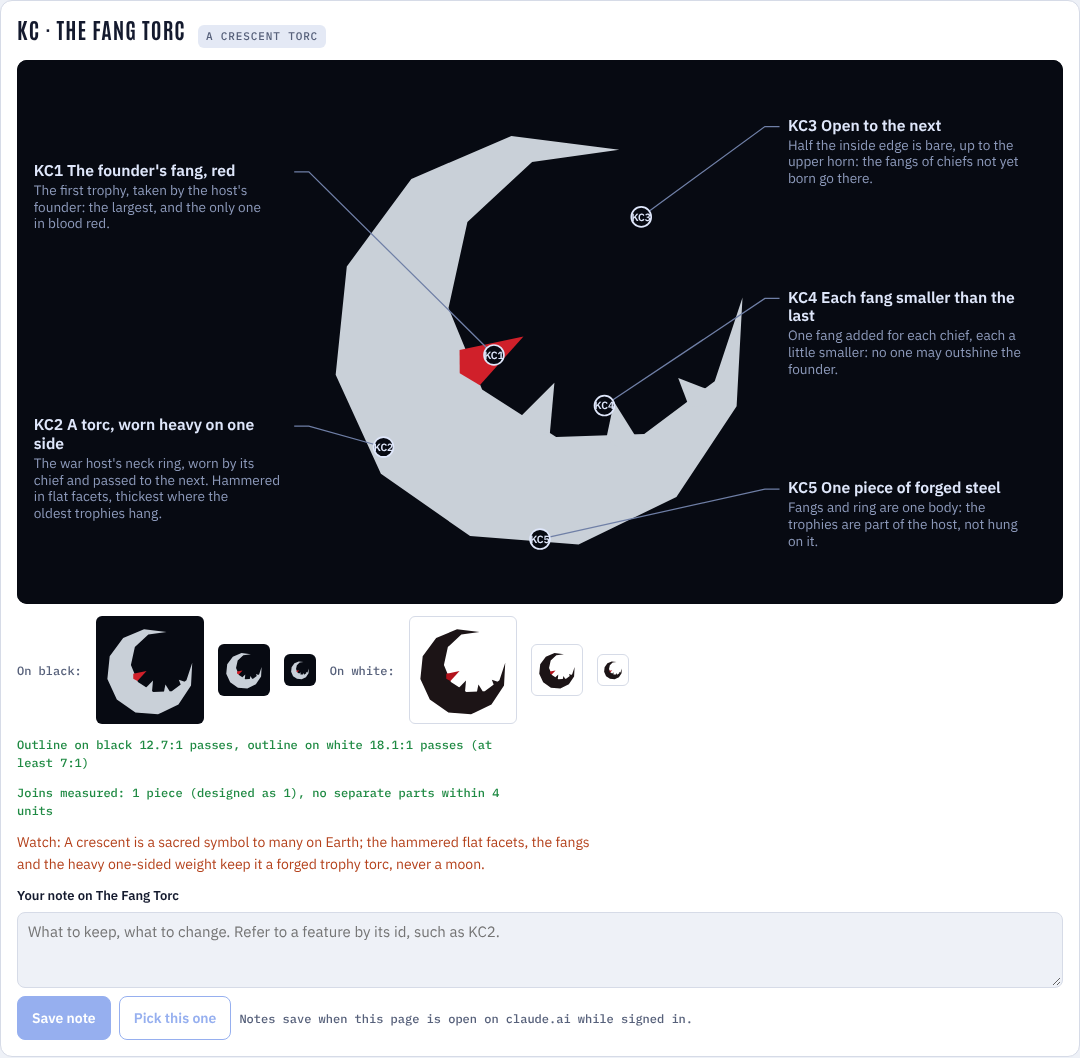
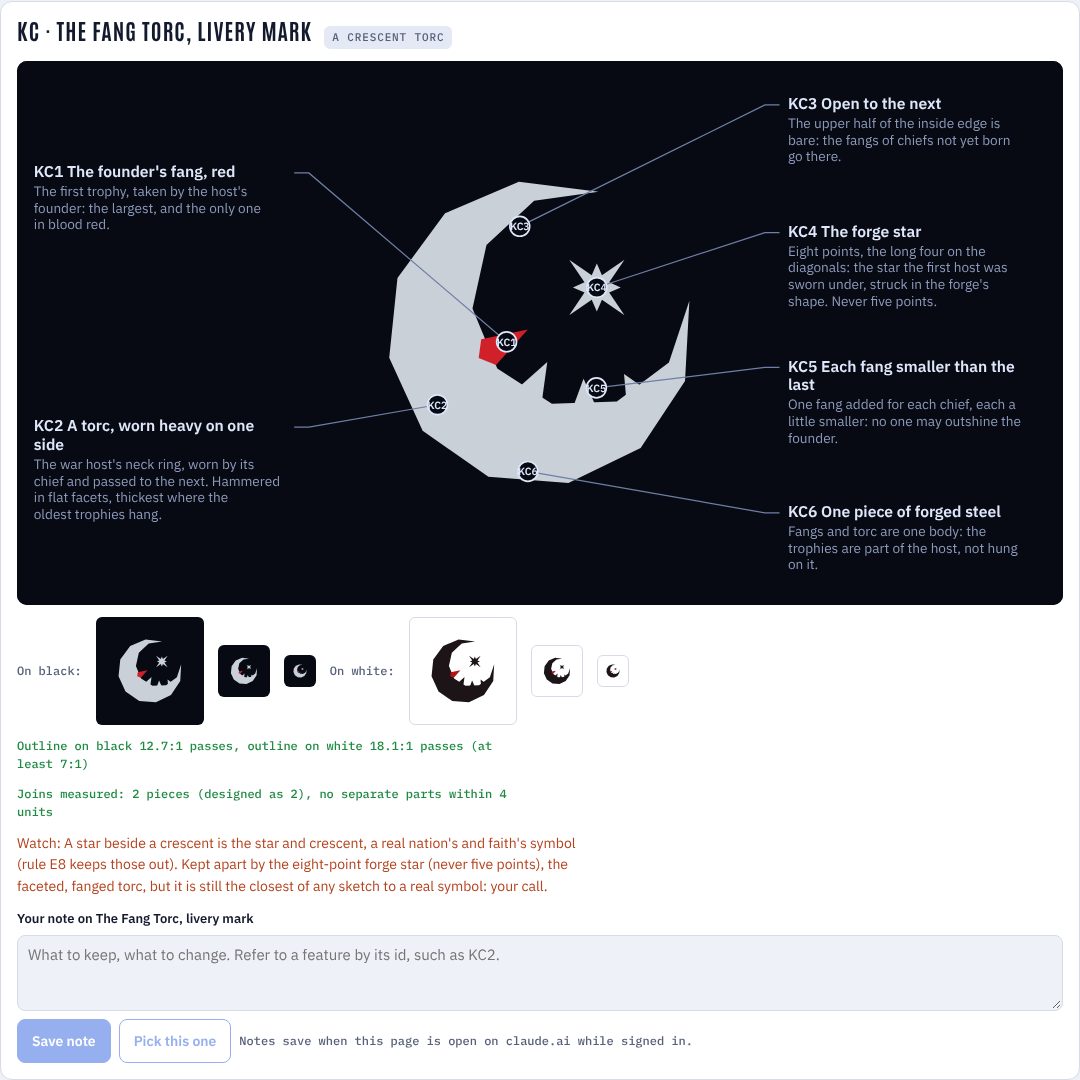
Krai emblem: the fang torc picked, emblem (KC+) and livery mark (KC)
The ring version with the forge star is the emblem; the same torc with
no ring is the livery mark. The emperor's three-point star tried and
set aside. The thin crescent keeps a 1.2 unit minimum width to its
point (a sub-pixel tip had broken off), and the fangs sit clear of the
lower horn. All four Krai sketches measured.

Claude-Session: https://claude.ai/code/session_01RGPQurdNhehmMFB559epqW

diff --git a/docs/design/emblem-guide.html b/docs/design/emblem-guide.html
@@ -221,6 +221,10 @@ ol.steps .st { font: 500 11px var(--mono); letter-spacing: 0.08em; text-transfor
 'use strict';
 // ---- your notes (newest first): kept in the page, added by Claude as you give them -----------------------------------
 const NOTES = [
+  { f: 'krai', when: '2026-11-04', q: 'bro this version slaps / Thats it / the forge star you had was even better / keep that', means: 'The ring version is the Krai\'s emblem (KC+): the forge star (eight points), the founder\'s red fang and four fangs, the thin outer crescent and the ring, as first drawn, the torc a little smaller so the thin crescent clears the ring. The three-point emperor\'s star and the engraving are dropped.' },
+  { f: 'krai', when: '2026-11-04', q: 'I like the overall shape of fang torc, I want a more complex version of this for emblem, but use thesimple logo for the ship livery', means: 'KC in two tiers: KC, the livery mark (the torc, the three houses\' fangs and the emperor\'s star, nothing round it), for the hulls; KC+, the emblem (the ring, the thin outer crescent, a tally per emperor on the ring, a groove along the facets, each fang bound, the throne in the star), for the 3D badge.' },
+  { f: 'krai', when: '2026-11-04', q: 'KC3 they have an emperor cheif, the 3 sided star should represent that / a star ruling over the 3 great houses', means: 'KC: the star is the emperor-chief, three-pointed and the only red, set above three fangs, one for each great house in order of precedence (the red founder\'s fang and the fourth fang go).' },
+  { f: 'krai', when: '2026-11-04', q: 'fang toc, add a star in the middle, circle around it for 3d emblem version, a thin crescent border to the outer part of the screscent', means: 'KC, the fang torc, taken forward: an eight-point forge star in its opening, a thin crescent along its outer edge, and a ring round all of it for the 3D badge; the torc made smaller to keep every part 4 units clear. Flagged: a star with a crescent is close to the star and crescent, a real symbol.' },
   { f: 'all', when: '2026-11-04', q: 'dont show everything on one page, we\'re on krai now, I dont need to see both krai and concord in one page', means: 'A faction switch at the top: one faction\'s sketches and notes at a time, opening on the Krai. Notes that apply to every faction always show.' },
   { f: 'krai', when: '2026-11-04', q: 'good, begin krai emblem design, this faction believes strongly in tradition. give them some sort of asymmetric logo', means: 'The Krai Warhost\'s section: three asymmetric directions, each a record that only grows one way: KA, the heirloom blade on a tally-notched shield (recommended); KB, the lineage standard with a chevron per elder; KC, the fang torc with a trophy per chief. Blade steel and blood red, measured like the Concord\'s.' },
   { f: 'concord', when: '2026-11-04', q: 'Yea ok. I\'ll accept that. Let\'s see it ont be ship hull. Solid color variant with a cyan colored star in the middle.', means: 'B-E27, the smooth keyhole, accepted: now B\'s main sketch. Painted on the Petrel\'s hull (M11) in the solid version with a cyan star.' },
@@ -642,25 +646,59 @@ function kbChevrons(k) {
   });
   return s;
 }
-// KC's torc: a heavy faceted crescent, open to the upper right, its two arcs meeting in sharp horns, with trophy fangs along its
-// inside edge from the founder's (largest, at the heavy end) toward the lower horn, the rest left open for the next.
+// KC's torc (owner, 2026-11-04, picking it: "fang toc, add a star in the middle, circle around it for 3d emblem version, a
+// thin crescent border to the outer part of the screscent"). A heavy faceted crescent, open to the upper right, its two
+// arcs meeting in sharp horns, with trophy fangs along its inside edge from the founder's (largest, at the heavy end)
+// toward the lower horn; a thin crescent following its outer edge; an eight-point forge star in its opening; and a ring
+// round all of it, the badge's rim. Everything is sized so each part stands at least 4 units clear of the next.
 const KC = (() => {
-  const C1 = [50, 52], r1 = 45, C2 = [62, 42], r2 = 32, d = Math.hypot(C2[0] - C1[0], C2[1] - C1[1]);
+  const O = [50, 50], RING = [49, 45];                 // the ring: outer and inner radius
+  const r1 = 33.2, k = r1 / 45, C1 = O, C2 = [O[0] + 12 * k, O[1] - 10 * k], r2 = 32 * k;
+  const d = Math.hypot(C2[0] - C1[0], C2[1] - C1[1]);
   const toC2 = Math.atan2(C2[1] - C1[1], C2[0] - C1[0]) / R, toC1 = toC2 + 180;
   const th = Math.acos((r1 * r1 + d * d - r2 * r2) / (2 * r1 * d)) / R, ph = Math.acos((r2 * r2 + d * d - r1 * r1) / (2 * r2 * d)) / R;
-  const out = [], inn = [];
+  const a0 = toC2 + th, span = 360 - 2 * th, out = [], inn = [];
   // Faceted, not round: hammered flat faces, so it reads as forged steel and never as a moon.
-  for (let i = 0; i <= 10; i++) out.push(pol(r1, toC2 + th + (360 - 2 * th) * i / 10, ...C1));
+  for (let i = 0; i <= 10; i++) out.push(pol(r1, a0 + span * i / 10, ...C1));
   for (let i = 0; i <= 8; i++) inn.push(pol(r2, toC1 + ph - 2 * ph * i / 8, ...C2));
-  const fangs = [[150, 14, 4.4], [115, 11, 3.8], [80, 8.5, 3.2], [45, 6.5, 2.7]].map(([a, len, hw]) => {
+  const fangs = [[150, 14, 4.4], [118, 11, 3.8], [88, 8.5, 3.2], [60, 6.5, 2.7]].map(([a, len, hw]) => {
+    len *= k; hw *= k;
     const t = [-Math.sin(a * R), Math.cos(a * R)], base = pol(r2 + 2, a, ...C2), tip = pol(r2 - len, a, ...C2), edge = pol(r2 - 0.5, a, ...C2);
     return [[edge[0] + t[0] * hw, edge[1] + t[1] * hw], tip, [edge[0] - t[0] * hw, edge[1] - t[1] * hw], base];
   });
-  return { body: polyD(out.concat(inn)), fangs };
+  // The thin crescent: 4 units outside the torc, along the same facets and the same span, tapering to points at both ends.
+  const gap = 4, wMax = 2.4, thinOut = [], thinIn = [];
+  for (let i = 0; i <= 40; i++) {
+    const t = i / 40, a = a0 + span * t, w = i === 0 || i === 40 ? 0 : Math.max(1.2, wMax * Math.pow(Math.sin(Math.PI * t), 0.6)); // never thinner than a print line before its point
+    // Follow the faceted edge: the radius of the facet under this angle, so the thin line stays parallel to it.
+    const f0 = Math.min(9, Math.floor(t * 10)), fa = a0 + span * f0 / 10, fb = a0 + span * (f0 + 1) / 10, mid = (fa + fb) / 2;
+    const rr = r1 * Math.cos((span / 20) * R) / Math.cos((a - mid) * R);
+    thinIn.push(pol(rr + gap, a, ...C1)); thinOut.push(pol(rr + gap + w, a, ...C1));
+  }
+  // The forge star (owner, 2026-11-04, of the emperor's three-point star that briefly replaced it: "the forge star you had
+  // was even better", "keep that"): eight points, the four long ones on the diagonals, in the torc's opening.
+  const S = [C2[0] + 3.5, C2[1] - 2.5], star = [];
+  for (let i = 0; i < 16; i++) star.push(pol(i % 2 ? 2.9 : (i % 4 === 0 ? 8.5 : 5.2), -45 + i * 22.5, ...S));
+  const ring = `M${O[0] + RING[0]} ${O[1]}A${RING[0]} ${RING[0]} 0 1 0 ${O[0] - RING[0]} ${O[1]}A${RING[0]} ${RING[0]} 0 1 0 ${O[0] + RING[0]} ${O[1]}Z`;
+  const ringIn = `M${O[0] + RING[1]} ${O[1]}A${RING[1]} ${RING[1]} 0 1 0 ${O[0] - RING[1]} ${O[1]}A${RING[1]} ${RING[1]} 0 1 0 ${O[0] + RING[1]} ${O[1]}Z`;
+  return { body: polyD(out.concat(inn)), fangs, thin: polyD(thinOut.concat(thinIn.reverse())), star: polyD(star), S, ring, ringIn,
+    C1, C2, r1, r2, k, a0, span, RING, O, at: (r, a, c) => pol(r, a, ...c) };
 })();
+// The torc in two tiers (owner, 2026-11-04: "I like the overall shape of fang torc, I want a more complex version of this
+// for emblem, but use thesimple logo for the ship livery", then of the ring version: "bro this version slaps", "Thats it").
+// simple: the torc, its fangs and the forge star, nothing round it, for the hull. full: the emblem, with the ring and the
+// thin outer crescent.
+function kcArt(k, ink = false, full = true) {
+  const c = (x) => (ink ? '#000' : x);
+  let s = '';
+  if (full) { s += `<path d="${KC.ring}${KC.ringIn}" fill="${c(k.frame)}" fill-rule="evenodd"/>`; if (!ink) s += path(KC.ringIn, k.field); s += path(KC.thin, c(k.frame)); }
+  s += path(KC.body, c(k.frame));
+  KC.fangs.forEach((g, i) => { s += path(polyD(g), c(i === 0 ? k.accent : k.frame)); });
+  return s + path(KC.star, c(k.frame));
+}
 const KRAI_DESIGNS = [
   {
-    id: 'krai-a', tag: 'KA', faction: 'krai', name: 'KA · The Heirloom Blade', outline: 'A lopsided shield', rec: true, own: true, pal: KRAI, pieces: 2,
+    id: 'krai-a', tag: 'KA', faction: 'krai', name: 'KA · The Heirloom Blade', outline: 'A lopsided shield', own: true, pal: KRAI, pieces: 2,
     risk: 'A blade across a shield is a common military badge; the hooked, barbed Krai bayonet, the single quillon and the tally-cut edge keep it the Krai\'s own.',
     draw(bg = 'dk') { const k = KRAI[bg]; return `<path d="${KA_SHIELD.frame}" fill="${k.frame}" fill-rule="evenodd"/>` + path(KA_SHIELD.field, k.field) + kaBlade(k); },
     ink() { return `<path d="${KA_SHIELD.frame}" fill="#000" fill-rule="evenodd"/>` + kaBlade({ device: '#000' }); },
@@ -689,16 +727,33 @@ const KRAI_DESIGNS = [
     ],
   },
   {
-    id: 'krai-c', tag: 'KC', faction: 'krai', name: 'KC · The Fang Torc', outline: 'A crescent torc', own: true, pal: KRAI, pieces: 1,
-    risk: 'A crescent is a sacred symbol to many on Earth; the hammered flat facets, the fangs and the heavy one-sided weight keep it a forged trophy torc, never a moon.',
-    draw(bg = 'dk') { const k = KRAI[bg]; let s = path(KC.body, k.frame); KC.fangs.forEach((g, i) => { s += path(polyD(g), i === 0 ? k.accent : k.frame); }); return s; },
-    ink() { let s = path(KC.body, '#000'); KC.fangs.forEach((g) => { s += path(polyD(g), '#000'); }); return s; },
+    id: 'krai-c', tag: 'KC', faction: 'krai', name: 'KC · The Fang Torc, livery mark', outline: 'A crescent torc', own: true, pal: KRAI, pieces: 2,
+    risk: 'A star beside a crescent is the star and crescent, a real nation\'s and faith\'s symbol (rule E8 keeps those out). Kept apart by the eight-point forge star (never five points), the faceted, fanged torc, but it is still the closest of any sketch to a real symbol: your call.',
+    draw(bg = 'dk') { return kcArt(KRAI[bg], false, false); },
+    ink() { return kcArt(KRAI.dk, true, false); },
     callouts: [
-      [16, 75, 'L', 'A torc, worn heavy on one side', 'The war host\'s neck ring, worn by its chief and passed to the next. Hammered in flat facets, thickest where the oldest trophies hang.'],
-      [40, 55, 'L', 'The founder\'s fang, red', 'The first trophy, taken by the host\'s founder: the largest, and the only one in blood red.'],
-      [64, 66, 'R', 'Each fang smaller than the last', 'One fang added for each chief, each a little smaller: no one may outshine the founder.'],
-      [72, 25, 'R', 'Open to the next', 'Half the inside edge is bare, up to the upper horn: the fangs of chiefs not yet born go there.'],
-      [50, 95, 'R', 'One piece of forged steel', 'Fangs and ring are one body: the trophies are part of the host, not hung on it.'],
+      [...KC.at(KC.r1 - 6, 145, KC.C1), 'L', 'A torc, worn heavy on one side', 'The war host\'s neck ring, worn by its chief and passed to the next. Hammered in flat facets, thickest where the oldest trophies hang.'],
+      [...KC.at(KC.r2 - 5, 150, KC.C2), 'L', 'The founder\'s fang, red', 'The first trophy, taken by the host\'s founder: the largest, and the only one in blood red.'],
+      [...KC.S, 'R', 'The forge star', 'Eight points, the long four on the diagonals: the star the first host was sworn under, struck in the forge\'s shape. Never five points.'],
+      [...KC.at(KC.r2 - 3, 230, KC.C2), 'R', 'Open to the next', 'The upper half of the inside edge is bare: the fangs of chiefs not yet born go there.'],
+      [...KC.at(KC.r2 - 4, 80, KC.C2), 'R', 'Each fang smaller than the last', 'One fang added for each chief, each a little smaller: no one may outshine the founder.'],
+      [...KC.at(KC.r1 - 3, 95, KC.C1), 'R', 'One piece of forged steel', 'Fangs and torc are one body: the trophies are part of the host, not hung on it.'],
+    ],
+  },
+  {
+    id: 'krai-c2', tag: 'KC+', faction: 'krai', name: 'KC+ · The Fang Torc, emblem', outline: 'A ring round a crescent torc', rec: true, own: true, pal: KRAI, pieces: 4,
+    risk: 'A star beside a crescent is the star and crescent, a real nation\'s and faith\'s symbol (rule E8 keeps those out). Kept apart by the eight-point forge star (never five points), the faceted, fanged torc, the thin outer crescent and the ring, but it is still the closest of any sketch to a real symbol: your call. The ring also goes against "never a circle holding things", at your request, for the 3D badge.',
+    draw(bg = 'dk') { return kcArt(KRAI[bg]); },
+    ink() { return kcArt(KRAI.dk, true); },
+    callouts: [
+      [...KC.at(KC.r1 - 6, 145, KC.C1), 'L', 'A torc, worn heavy on one side', 'The war host\'s neck ring, worn by its chief and passed to the next. Hammered in flat facets, thickest where the oldest trophies hang.'],
+      [...KC.at(KC.r2 - 5, 150, KC.C2), 'L', 'The founder\'s fang, red', 'The first trophy, taken by the host\'s founder: the largest, and the only one in blood red.'],
+      [...KC.at(KC.r1 + 5.2, 200, KC.C1), 'L', 'A thin crescent outside', 'A second, fine crescent along the torc\'s outer edge: the line of every chief who wore it before, always just behind the one who wears it now.'],
+      [...KC.at(47, 225, [50, 50]), 'L', 'The ring, the badge\'s rim', 'For the 3D emblem: the host\'s oath ring, closed round the torc. Everything inside stands 4 units clear of it.'],
+      [...KC.S, 'R', 'The forge star', 'Eight points, the long four on the diagonals: the star the first host was sworn under, struck in the forge\'s shape. Never five points.'],
+      [...KC.at(KC.r2 - 3, 230, KC.C2), 'R', 'Open to the next', 'The upper half of the inside edge is bare: the fangs of chiefs not yet born go there.'],
+      [...KC.at(KC.r2 - 4, 80, KC.C2), 'R', 'Each fang smaller than the last', 'One fang added for each chief, each a little smaller: no one may outshine the founder.'],
+      [...KC.at(KC.r1 - 3, 95, KC.C1), 'R', 'One piece of forged steel', 'Fangs and torc are one body: the trophies are part of the host, not hung on it.'],
     ],
   },
 ];
@@ -891,6 +946,8 @@ async function measureOutline(svgInner) {
   const parts = count(true), regions = count(false);
   return { parts, holes: regions - 1, ok: parts === 1 && regions === 1 };
 }
+// A sketch's silhouette as SVG, for the tools that measure it (tools/emblems/).
+window.EMBLEM_INK = (id) => { const d = [...DESIGNS, ...KRAI_DESIGNS].find((x) => x.id === id); return d ? (d.ink || d.draw).call(d) : null; };
 window.EMBLEM_CHECK = async () => {
   const out = [];
   for (const e of ENCLOSURES) {

diff --git a/docs/mockups/tracker.html b/docs/mockups/tracker.html
@@ -150,8 +150,8 @@ const GUIDES = [
     published: '2026-11-03', version: 2,
     summary: 'How every Fleet Command ship is designed, worked on the Concord line: rooms first as block floor plans, the hull fitted round them and measured (the Petrel: 23 rooms, every one 1.05 m inside), then the named parts (hulls, neck, bridge block, struts, nacelles; a bridge block only on super capital ships, otherwise by playtest), windows only on lived-in rooms, parallax interiors, hull lighting, markings and liveries, an exterior that complements its console (a guide, not a hard rule), and parallax damage. Live deck plans, fitted hull and exploded parts.' },
   { title: 'Emblem Design Guide', page: 'docs/design/emblem-guide.html', url: 'https://claude.ai/artifact/1ELwhue4vzFPjySnVc475V',
-    published: '2026-11-04', version: 23,
-    summary: 'How faction emblems are designed, and the record of your notes on them, one faction at a time (a switch at the top): sketch flat in SVG first with every choice explained, you pick, then sculpt in 3D. Rules compiled from your notes, the reference badges and the STARFLEET Visual Standards Manual (cited by page); each sketch measured for joins, one closed outline and contrast on black and on white. The Concord\'s sketches, with B worked furthest: B-E27, the smooth keyhole (B-E15 smoothed), accepted, built as the 3D badge (M10) and on the Concord line (M6). The Krai Warhost started: three asymmetric sketches for a people of tradition (the heirloom blade, the lineage standard, the fang torc).' },
+    published: '2026-11-04', version: 24,
+    summary: 'How faction emblems are designed, and the record of your notes on them, one faction at a time (a switch at the top): sketch flat in SVG first with every choice explained, you pick, then sculpt in 3D. Rules compiled from your notes, the reference badges and the STARFLEET Visual Standards Manual (cited by page); each sketch measured for joins, one closed outline and contrast on black and on white. The Concord\'s sketches, with B worked furthest: B-E27, the smooth keyhole (B-E15 smoothed), accepted, built as the 3D badge (M10) and on the Concord line (M6). The Krai Warhost: the fang torc picked, as an emblem (a ring round the torc, a thin outer crescent, the forge star) and a simpler livery mark for the hulls.' },
 ];
 const MISC = [
   { title: 'Concord emblem on the hull (retired)', page: 'docs/mockups/concord-emblem-hull.html', url: 'https://claude.ai/artifact/FLP6mnCeUCwn9c2rG2pxK9',

diff --git a/openspec/changes/faction-emblems/design.md b/openspec/changes/faction-emblems/design.md
@@ -93,6 +93,18 @@ torc (a faceted crescent, a trophy fang per chief from the founder's red one, th
 blade steel `#c9d0d8` and blood red `#d0202a` on a blackened field on black; near-black `#1c1416` and `#b3121b` on a bone
 field on white. Each sketch is measured for joins and its outline against both grounds (12.7:1 and 18.1:1 for KA).
 
+**Picked: the Fang Torc, in two tiers** (owner, 2026-11-04: "fang toc, add a star in the middle, circle around it for 3d
+emblem version, a thin crescent border to the outer part of the screscent", then "I want a more complex version of this
+for emblem, but use thesimple logo for the ship livery", and of the ring version "bro this version slaps", "Thats it",
+"the forge star you had was even better", "keep that"). **KC+, the emblem**: the faceted torc with the founder's red fang
+and three smaller fangs, an eight-point forge star in its opening, a thin crescent 4 units outside its outer edge, and a
+ring (radii 45 to 49) round all of it, for the 3D badge. **KC, the livery mark**: the same torc, fangs and star with no
+ring and no thin crescent, for the Krai hulls. A three-point emperor's star over three great houses (owner: "they have an
+emperor cheif ... a star ruling over the 3 great houses") was drawn and then set aside for the forge star; the emperor
+and the three great houses stand as Krai culture. Flagged to the owner: a star beside a crescent is close to the star and
+crescent, a real nation's and faith's symbol (rule E8); the eight points, the facets, the fangs and the ring keep it apart.
+Next: the 3D badge of KC+, and KC on the Krai ships' livery (the Krai ship page belongs to the Concord ships thread).
+
 ## The rules for an emblem
 
 | Rule | Says | Why |

diff --git a/docs/artifacts/emblem-guide/README.md b/docs/artifacts/emblem-guide/README.md
@@ -69,3 +69,4 @@
 - 2026-11-04, version 21 (`1793787092-93c4`): B-E27 accepted and made B's main sketch ("Yea ok. I'll accept that"); its parts exported to `assets/emblems/concord/b-e27.parts.json`.
 - 2026-11-04, version 22 (`1793795704-e08e`): the Krai Warhost section (owner: "begin krai emblem design, this faction believes strongly in tradition. give them some sort of asymmetric logo"): KA the heirloom blade (recommended), KB the lineage standard, KC the fang torc; feature ids KA1, KB1 and so on; measured joins and outline contrast.
 - 2026-11-04, version 23 (`1793799576-4c5a`): one faction at a time (owner: "dont show everything on one page, we're on krai now, I dont need to see both krai and concord in one page"): a faction switch at the top, opening on the Krai (or #concord); notes tagged by faction, general ones always shown; the faction's sketches moved up to just after the notes.
+- 2026-11-04, version 24 (`1793800290-faa4`): the Fang Torc picked, in two tiers: KC+, the emblem (the ring, the thin outer crescent, the forge star, the founder's red fang), and KC, the livery mark for the hulls; the three-point emperor's star tried and set aside for the forge star ("the forge star you had was even better", "keep that"); window.EMBLEM_INK added for the measuring tools.

diff --git a/docs/artifacts/mockup-tracker/README.md b/docs/artifacts/mockup-tracker/README.md
@@ -92,3 +92,4 @@
 - 2026-11-04, cloud session: M6 at v22 (full stripes); version 94, id `1793794813-2a28`.
 - 2026-11-04, cloud session: the guide at v22 (the Krai started); version 95, id `1793795718-1dea`.
 - 2026-11-04, cloud session: the guide at v23 (one faction at a time); version 96, id `1793799595-1731`.
+- 2026-11-04, cloud session: the guide at v24 (the Krai's fang torc picked); version 97, id `1793800301-06d6`.
